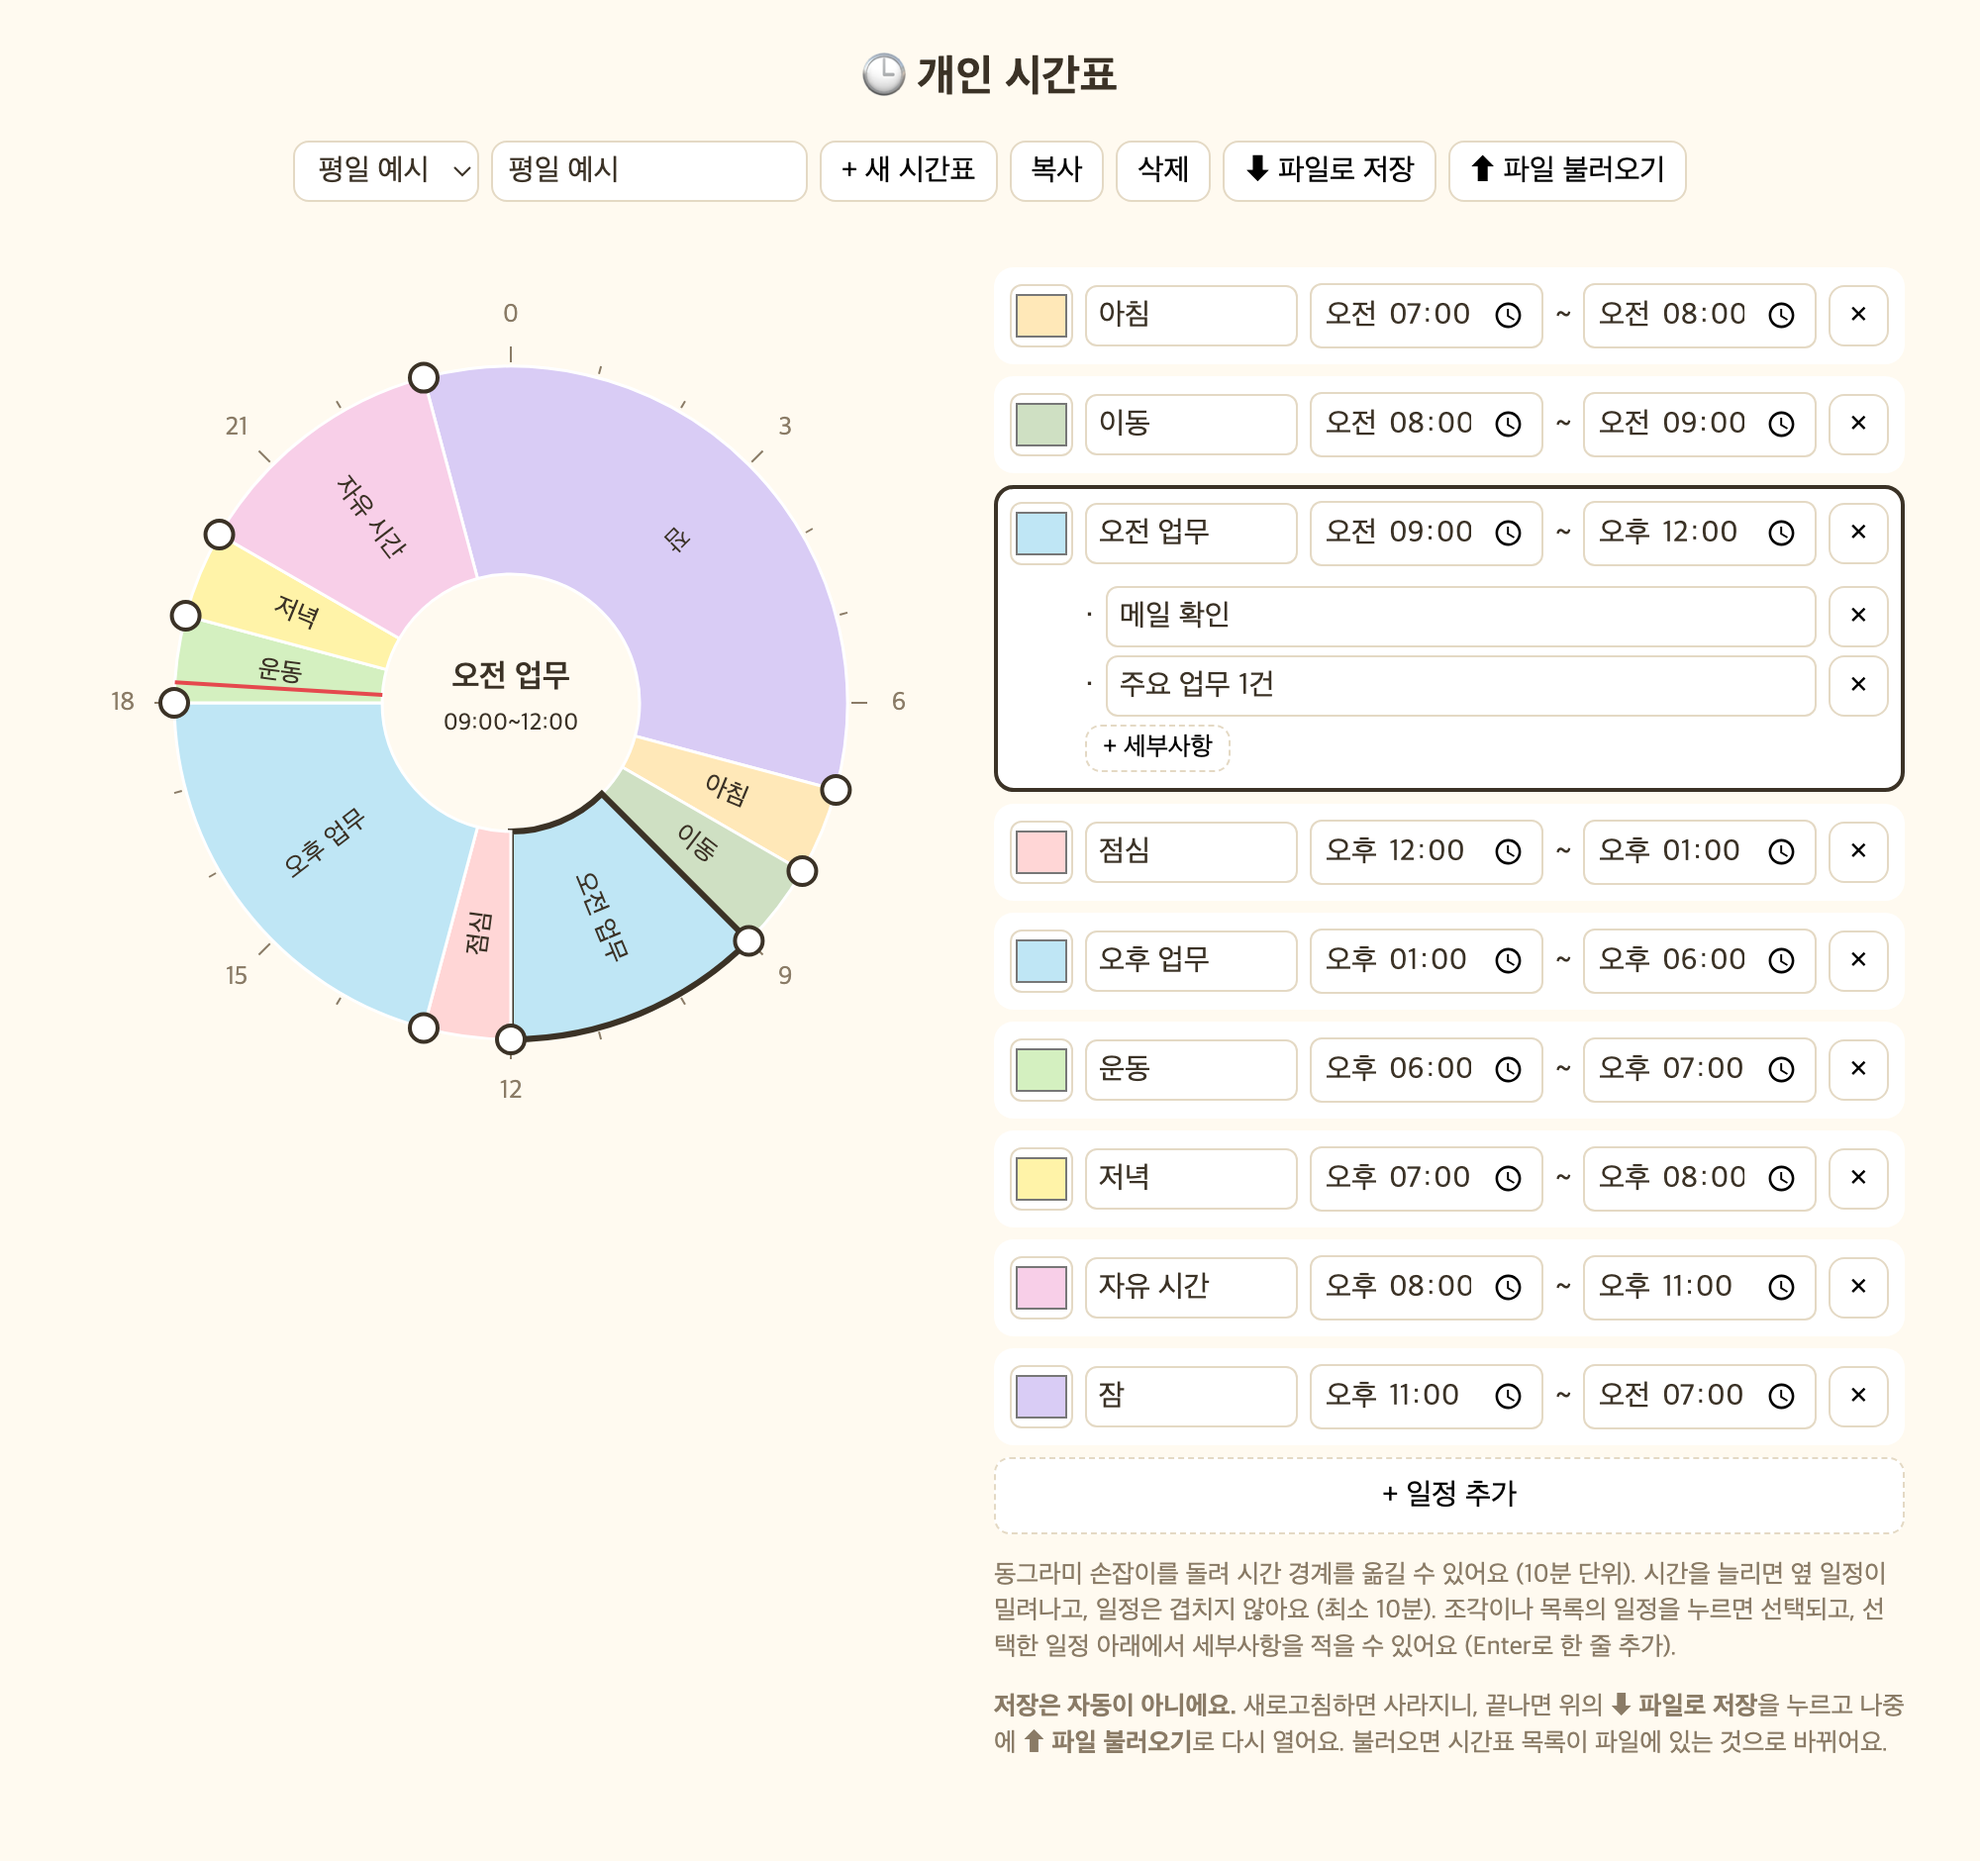
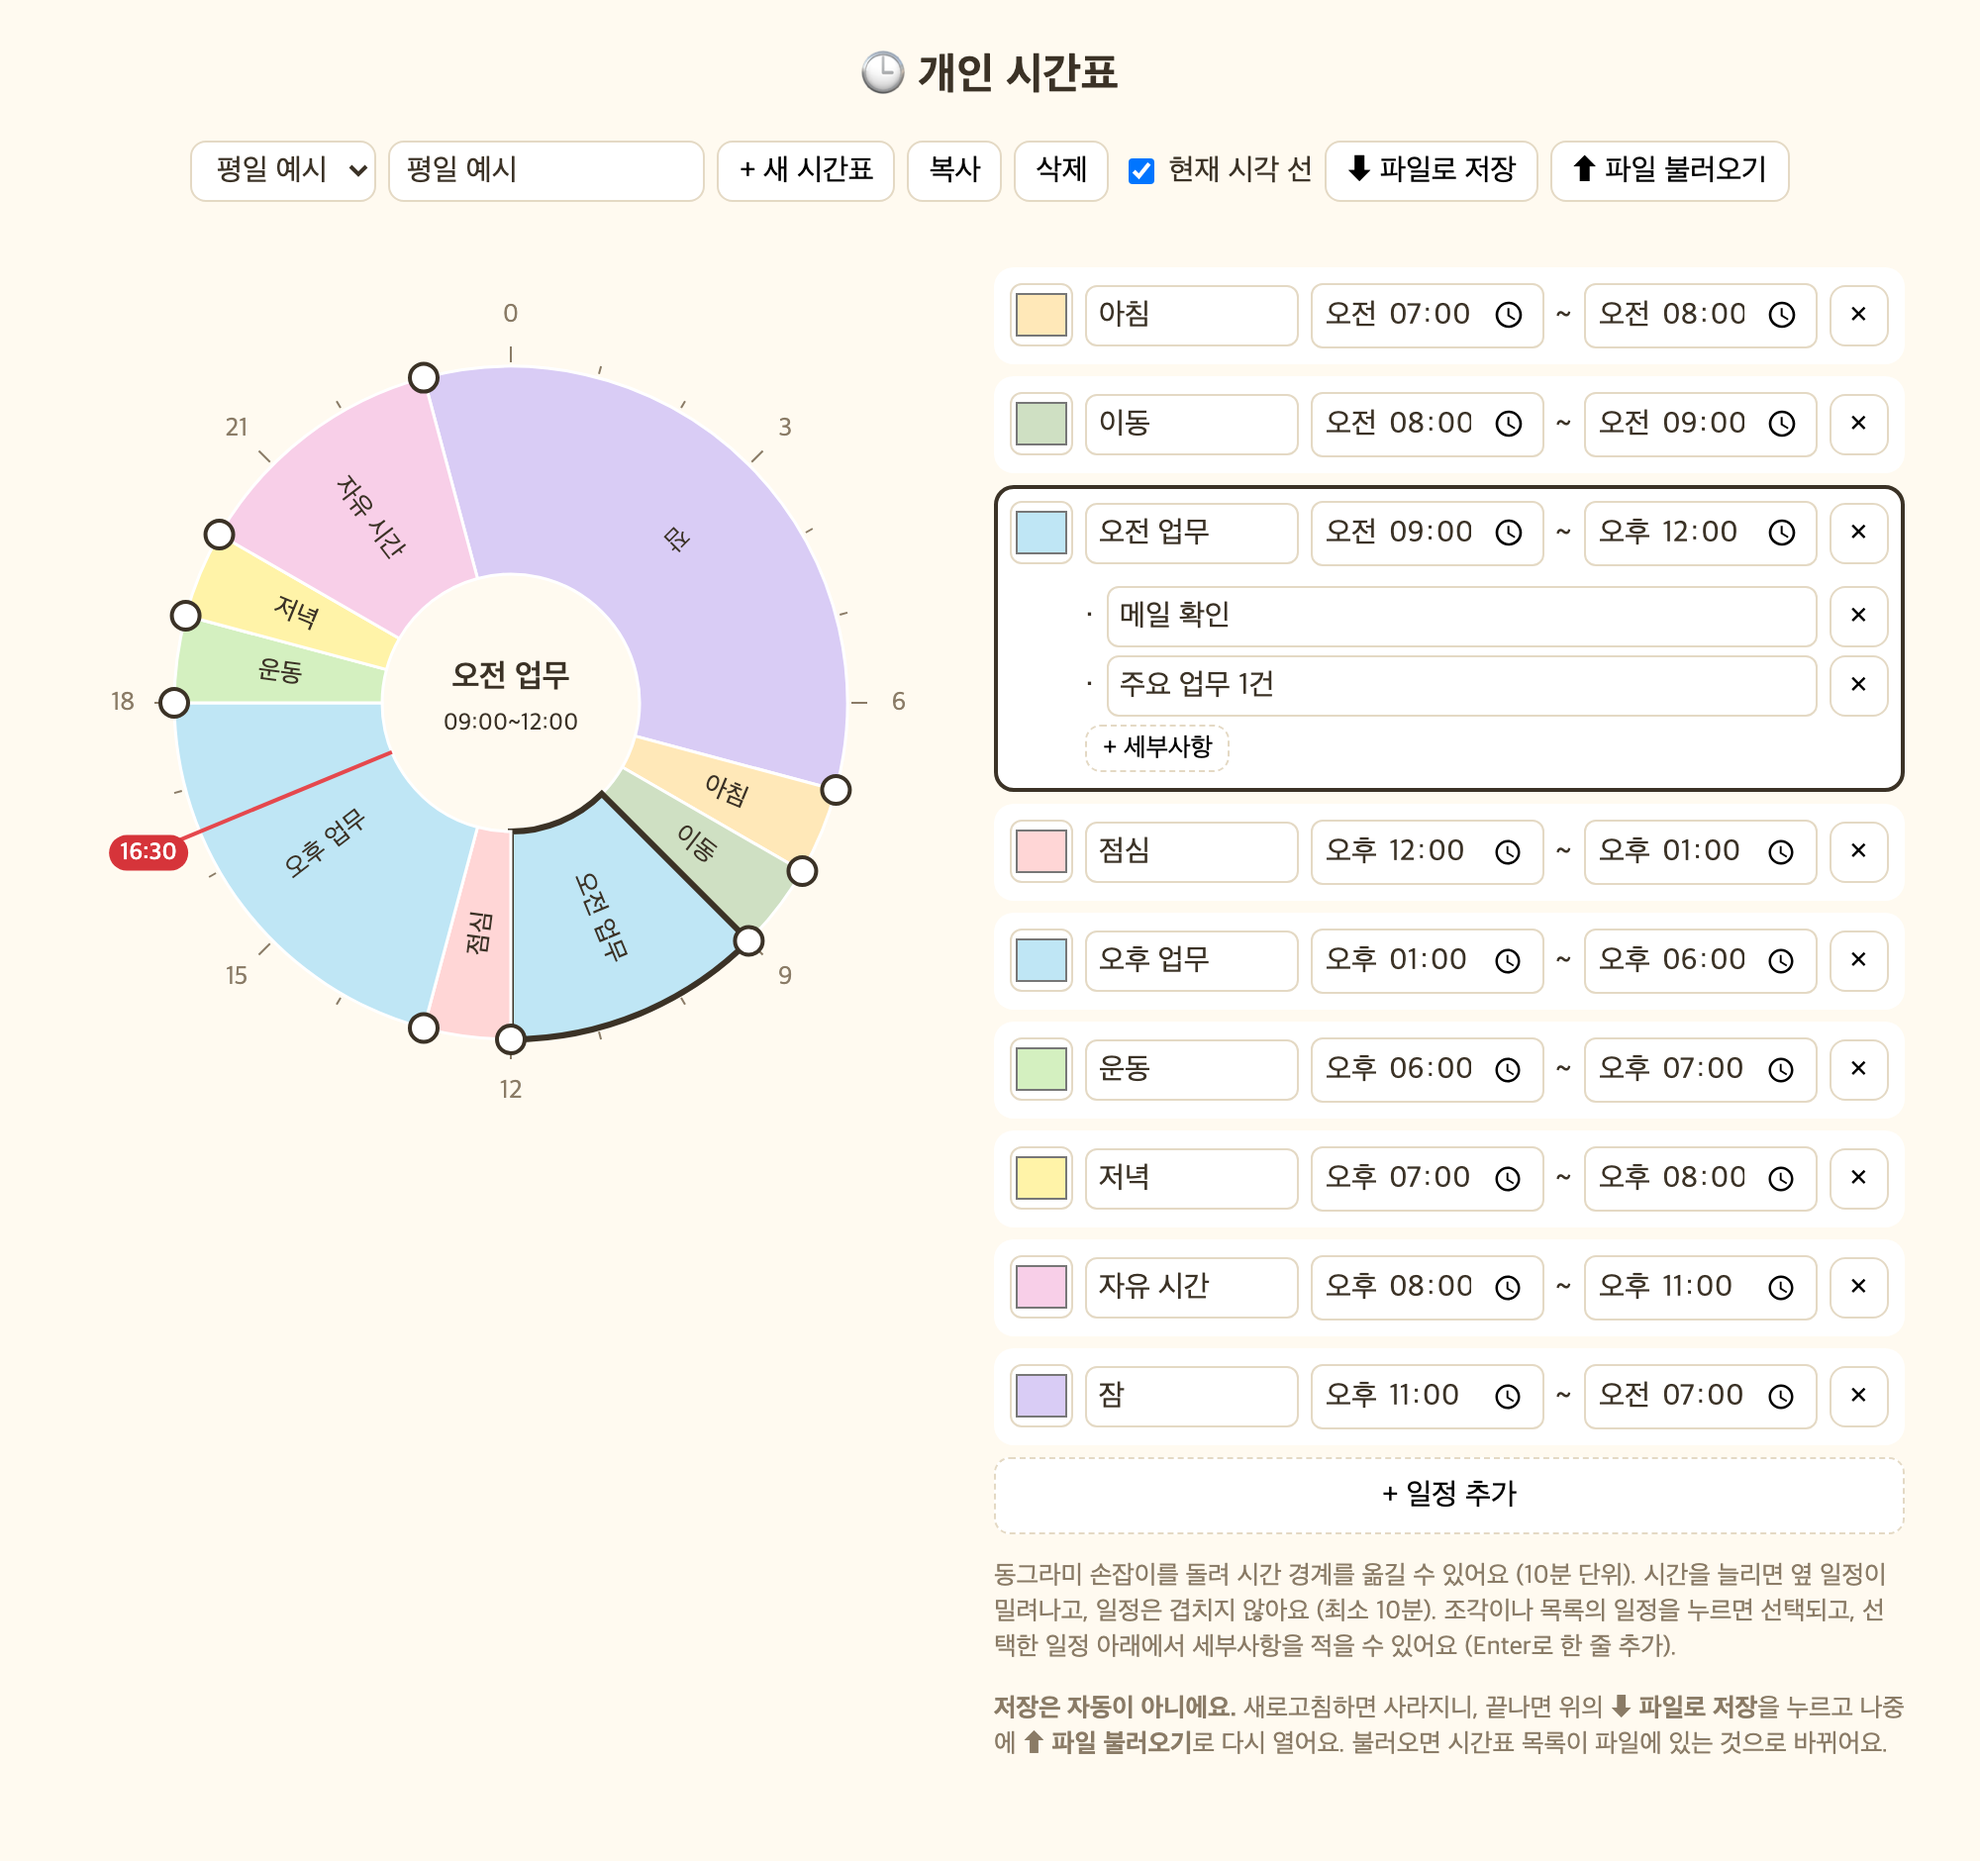
docs(circle-planner): update the README and screenshot to match the current app (#20)
* docs(circle-planner): update the README to match the current app

* docs(circle-planner): retake the screenshot

---------

diff --git a/circle-planner/README.md b/circle-planner/README.md
@@ -11,7 +11,7 @@
 
 ## 주요 기능
 
-- **원형 24시간 시간표** — 0시가 위, 시계 방향. 지금 시각은 빨간 선으로 표시돼요.
+- **원형 24시간 시간표** — 0시가 위, 시계 방향. 지금 시각은 빨간 선과 선 끝의 `HH:MM` 표시로 보여요. 상단의 `현재 시각 선`을 끄면 둘 다 사라져요. 이 설정은 파일에 저장되지 않고, 새로고침하면 다시 켜져요.
 - **일정이 겹치지 않아요** — 한 일정의 시간을 늘리면 옆 일정이 자동으로 밀려납니다. 옆 일정이 너무 짧아지면(10분 미만) 거부돼요.
 - **10분 단위** — 드래그, 시간 입력, 최소 길이 모두 10분입니다.
 - **손잡이 드래그** — 원 위의 동그라미를 돌려 시간 경계를 옮길 수 있어요.
@@ -34,16 +34,16 @@ python3 -m http.server 8000
 
 ## 사용법
 
-1. **일정 만들기** — `+ 일정 추가`를 누르면 가장 넓은 빈 시간에 1시간짜리가 생겨요. 이름, 색, 시작/끝 시간을 목록에서 고칩니다.
-2. **시간 조절** — 목록의 시간 칸을 고치거나, 원 위 손잡이를 드래그하세요.
-3. **세부사항 적기** — 원의 조각이나 목록의 일정을 누르면 선택되고, `+ 세부사항`으로 줄을 추가해요. Enter를 누르면 다음 줄이 생겨요.
+1. **일정 만들기** — `+ 일정 추가`를 누르면 가장 넓은 빈 시간에 최대 1시간짜리가 생겨요. 이름, 색, 시작/끝 시간을 목록에서 고칩니다.
+2. **시간 조절** — 목록의 시간 칸을 고치거나, 원 위 손잡이를 드래그하세요. 시작 시간을 바꾸면 목록이 바로 시간순으로 다시 정렬돼요. 시간 칸을 비우고 다른 곳을 누르면 원래 시간으로 돌아가요.
+3. **세부사항 적기** — 원의 조각이나 목록의 일정을 누르면 선택되고, `+ 세부사항`으로 줄을 추가해요. Enter를 누르면 다음 줄이 생겨요. 비어 있는 줄은 다른 곳을 누르면 사라지고, 파일에도 저장되지 않아요.
 4. **시간표 관리** — 상단에서 시간표를 고르고, 이름을 바꾸고, `+ 새 시간표`(빈 시간표), `복사`, `삭제`를 쓸 수 있어요. 시간표가 하나뿐이면 삭제할 수 없어요.
-5. **저장** — 끝나면 `⬇ 파일로 저장`을 누르세요. `timetables-날짜.json`이 브라우저의 다운로드 폴더에 저장됩니다.
+5. **저장** — 끝나면 `⬇ 파일로 저장`을 누르세요. `timetables-YYYY-MM-DD.json`(내 PC 기준 오늘 날짜)이 브라우저의 다운로드 폴더에 저장됩니다. 저장해도 화면에는 안내가 뜨지 않아요.
 6. **불러오기** — 다음에 `⬆ 파일 불러오기`로 그 파일을 고르면 이어서 쓸 수 있어요.
 
 ## ⚠ 알아둘 점
 
-- **저장은 자동이 아니에요.** 데이터는 브라우저 메모리에만 있어서 새로고침하거나 탭을 닫으면 사라집니다. 저장하지 않은 변경이 있으면 닫을 때 경고가 떠요.
+- **저장은 자동이 아니에요.** 데이터는 브라우저 메모리에만 있어서 새로고침하거나 탭을 닫으면 사라집니다. 닫을 때 경고는 뜨지 않아요.
 - **불러오면 목록이 교체돼요.** 지금 화면의 시간표가 파일에 있는 시간표들로 바뀝니다. 저장하지 않은 변경이 있으면 먼저 물어봐요.
 - 파일이 비었거나 형식이 맞지 않으면 "불러오기 실패"를 알려 주고 화면은 그대로 둡니다. 일부 시간표만 문제가 있으면 나머지만 불러와요.
 - 일정 이름은 12자, 시간표 이름은 20자까지예요. 40분보다 짧은 일정은 원 위에 이름이 표시되지 않아요 (목록에서는 보여요).
@@ -71,5 +71,6 @@ python3 -m http.server 8000
 ```
 
 - `start`, `end`는 하루 0시부터의 **분**(0~1439)이에요. `end`가 `start`보다 작으면 자정을 넘기는 일정입니다.
+- `start`, `end`는 10의 배수(10분 단위)여야 해요. 아니면 그 시간표는 건너뛰고, 알림으로 이유를 알려 줘요.
 - `color`는 `#rrggbb` 형식이에요.
 - 일정끼리 겹치는 시간표는 불러오지 않아요.
